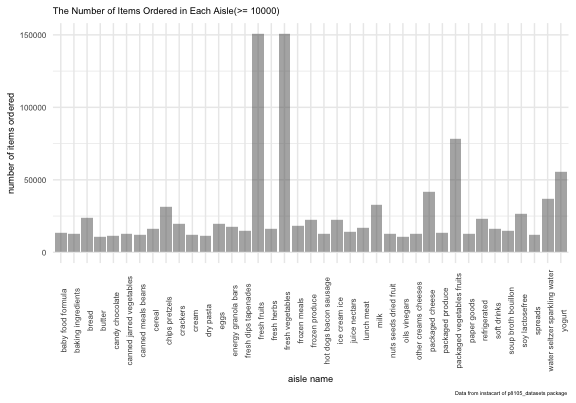
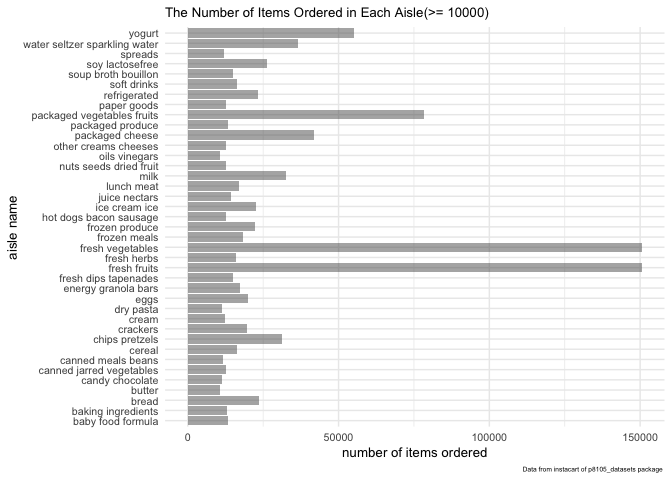
change global graphic setting and edit some tables

diff --git a/p8105_hw3_ry2417.md b/p8105_hw3_ry2417.md
@@ -10,10 +10,7 @@ library(tidyverse)
 
 knitr::opts_chunk$set(
   warning = FALSE,
-  message = FALSE,
-  fig.width = 6,
-  fig.asp = .7,
-  out.width = "90%"
+  message = FALSE
 )
 
 theme_set(theme_minimal() + theme(legend.position = "bottom"))
@@ -171,13 +168,14 @@ most_popular_product_by_dptm <-
     product_rank = min_rank(desc(num_order))
   ) %>% 
   select(-num_order) %>% 
-  filter(product_rank < 6) %>% 
-  head(40) %>% 
+  filter(product_rank < 4) %>% 
+  head(18) %>% 
+  arrange(product_rank) %>% 
   pivot_wider(
-    names_from = department,
+    names_from = product_rank,
+    names_prefix = "rank_",
     values_from = product_name
   ) %>% 
-  arrange(product_rank) %>% 
   knitr::kable()
 
 most_popular_product_by_aisle <-
@@ -193,12 +191,7 @@ most_popular_product_by_aisle <-
     product_rank = min_rank(desc(num_times))
   ) %>% 
   filter(product_rank < 4) %>% 
-  arrange(product_rank) %>% 
-  pivot_wider(
-    names_from = product_rank,
-    values_from = c(product_name, num_times),
-    names_glue = "Rank_{product_rank}_{.value}"
-  ) %>% 
+  arrange(aisle, product_rank) %>% 
   knitr::kable()
 
 mean_hour_of_day_dow <-
@@ -259,26 +252,33 @@ times being ordered
 The three most popular items in each of the aisles “baking ingredients”,
 “dog food care”, and “packaged vegetables fruits” are listed here
 
-| aisle                      | Rank\_1\_product\_name                        | Rank\_2\_product\_name              | Rank\_3\_product\_name | Rank\_1\_num\_times | Rank\_2\_num\_times | Rank\_3\_num\_times |
-|:---------------------------|:----------------------------------------------|:------------------------------------|:-----------------------|--------------------:|--------------------:|--------------------:|
-| baking ingredients         | Light Brown Sugar                             | Pure Baking Soda                    | Cane Sugar             |                 499 |                 387 |                 336 |
-| dog food care              | Snack Sticks Chicken & Rice Recipe Dog Treats | Organix Chicken & Brown Rice Recipe | Small Dog Biscuits     |                  30 |                  28 |                  26 |
-| packaged vegetables fruits | Organic Baby Spinach                          | Organic Raspberries                 | Organic Blueberries    |                9784 |                5546 |                4966 |
+| aisle                      | product\_name                                 | num\_times | product\_rank |
+|:---------------------------|:----------------------------------------------|-----------:|--------------:|
+| baking ingredients         | Light Brown Sugar                             |        499 |             1 |
+| baking ingredients         | Pure Baking Soda                              |        387 |             2 |
+| baking ingredients         | Cane Sugar                                    |        336 |             3 |
+| dog food care              | Snack Sticks Chicken & Rice Recipe Dog Treats |         30 |             1 |
+| dog food care              | Organix Chicken & Brown Rice Recipe           |         28 |             2 |
+| dog food care              | Small Dog Biscuits                            |         26 |             3 |
+| packaged vegetables fruits | Organic Baby Spinach                          |       9784 |             1 |
+| packaged vegetables fruits | Organic Raspberries                           |       5546 |             2 |
+| packaged vegetables fruits | Organic Blueberries                           |       4966 |             3 |
 
 The most popular items in some departments are shown below
 
-| product\_rank | alcohol            | babies                                           | bakery                                         | beverages                       | breakfast                         | bulk                       | canned goods              | dairy eggs                      |
-|--------------:|:-------------------|:-------------------------------------------------|:-----------------------------------------------|:--------------------------------|:----------------------------------|:---------------------------|:--------------------------|:--------------------------------|
-|             1 | Sauvignon Blanc    | Baby Food Stage 2 Blueberry Pear & Purple Carrot | 100% Whole Wheat Bread                         | Sparkling Water Grapefruit      | Honey Nut Cheerios                | Dried Mango                | Organic Black Beans       | Organic Whole Milk              |
-|             2 | Cabernet Sauvignon | Spinach Peas & Pear Stage 2 Baby Food            | Organic Bread with 21 Whole Grains             | Spring Water                    | Organic Old Fashioned Rolled Oats | Organic Rolled Oats        | No Salt Added Black Beans | Organic Half & Half             |
-|             3 | Beer               | Gluten Free SpongeBob Spinach Littles            | Sourdough Bread                                | Lime Sparkling Water            | Raisin Bran Cereal                | Organic Black Mission Figs | Organic Garbanzo Beans    | Half & Half                     |
-|             4 | Chardonnay         | Free & Clear Unscented Baby Wipes                | Ezekiel 4:9 Bread Organic Sprouted Whole Grain | Sparkling Natural Mineral Water | Cereal                            | Apricots                   | Organic Diced Tomatoes    | Organic Unsweetened Almond Milk |
-|             5 | Vodka              | Broccoli & Apple Stage 2 Baby Food               | Original Nooks & Crannies English Muffins      | Soda                            | Organic Cinnamon Crunch Cereal    | Rolled Oats                | Black Beans               | Unsweetened Almondmilk          |
+| department | rank\_1                                          | rank\_2                               | rank\_3                               |
+|:-----------|:-------------------------------------------------|:--------------------------------------|:--------------------------------------|
+| alcohol    | Sauvignon Blanc                                  | Cabernet Sauvignon                    | Beer                                  |
+| babies     | Baby Food Stage 2 Blueberry Pear & Purple Carrot | Spinach Peas & Pear Stage 2 Baby Food | Gluten Free SpongeBob Spinach Littles |
+| bakery     | 100% Whole Wheat Bread                           | Organic Bread with 21 Whole Grains    | Sourdough Bread                       |
+| beverages  | Sparkling Water Grapefruit                       | Spring Water                          | Lime Sparkling Water                  |
+| breakfast  | Honey Nut Cheerios                               | Organic Old Fashioned Rolled Oats     | Raisin Bran Cereal                    |
+| bulk       | Dried Mango                                      | Organic Rolled Oats                   | Organic Black Mission Figs            |
 
 The day of the week when most orders were placed is Sunday. The average
-days since prior order per user are 17 days. The table showing the mean
-hour of the day at which Pink Lady Apples and Coffee Ice Cream are
-ordered on each day of the week is
+days since prior order per user are 17 days.  
+The table showing the mean hour of the day at which Pink Lady Apples and
+Coffee Ice Cream are ordered on each day of the week is
 
 | product\_name    |   Sunday |   Monday |  Tuesday | Wednesday | Thursday |   Friday | Saturday |
 |:-----------------|---------:|---------:|---------:|----------:|---------:|---------:|---------:|
@@ -302,15 +302,16 @@ p1_df %>%
        title = "The Number of Items Ordered in Each Aisle(>= 10000)",
        caption = "Data from instacart of p8105_datasets package ") +
   theme(
-    axis.text.x = element_text(angle = 90, size = 6),
-    axis.text.y = element_text(size = 6),
-    axis.title = element_text(size = 7),
-    plot.title = element_text(size = 7),
-    plot.caption = element_text(size = 4)
-  )
+    axis.text.x = element_text(size = 8),
+    axis.text.y = element_text(size = 8),
+    axis.title = element_text(size = 10),
+    plot.title = element_text(size = 10),
+    plot.caption = element_text(size = 5)
+  ) +
+  coord_flip()
 ```
 
-<img src="p8105_hw3_ry2417_files/figure-gfm/problem_1_plot-1.png" width="90%" />
+![](p8105_hw3_ry2417_files/figure-gfm/problem_1_plot-1.png)<!-- -->
 
 ## Problem 2
 
@@ -394,7 +395,7 @@ excellent_df %>%
   guides(color = guide_legend(nrow = 4))
 ```
 
-<img src="p8105_hw3_ry2417_files/figure-gfm/unnamed-chunk-9-1.png" width="90%" />
+![](p8105_hw3_ry2417_files/figure-gfm/unnamed-chunk-9-1.png)<!-- -->
 
 Make a two-panel plot showing, for the years 2006, and 2010,
 distribution of data\_value for responses (“Poor” to “Excellent”) among
@@ -417,7 +418,7 @@ p2_df %>%
   )
 ```
 
-<img src="p8105_hw3_ry2417_files/figure-gfm/unnamed-chunk-10-1.png" width="90%" />
+![](p8105_hw3_ry2417_files/figure-gfm/unnamed-chunk-10-1.png)<!-- -->
 
 ## Problem 3
 
@@ -566,7 +567,7 @@ p3_df %>%
   guides(color = guide_legend(nrow = 1))
 ```
 
-<img src="p8105_hw3_ry2417_files/figure-gfm/unnamed-chunk-14-1.png" width="90%" />
+![](p8105_hw3_ry2417_files/figure-gfm/unnamed-chunk-14-1.png)<!-- -->
 
 From the plot, we can see that activity is extremely high during 7pm to
 10pm and moderately high between 6am to 12pm and 4pm to 5pm. The overall
